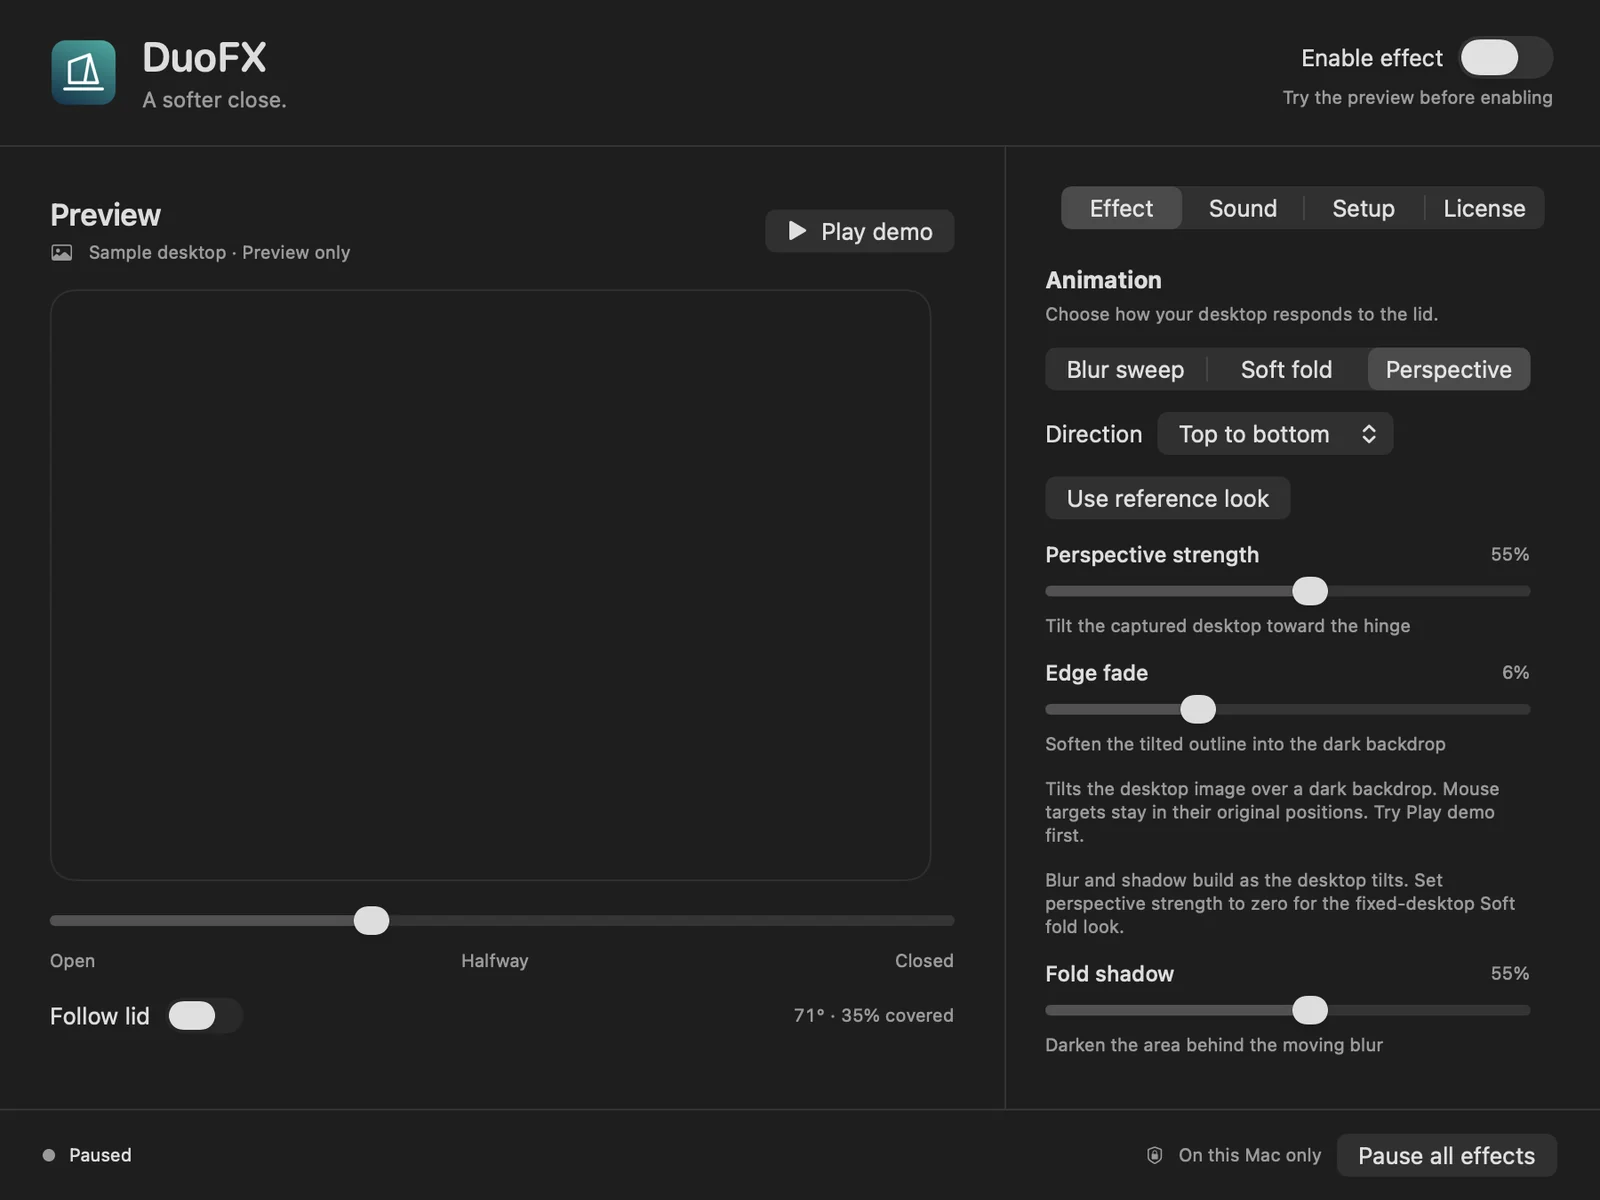
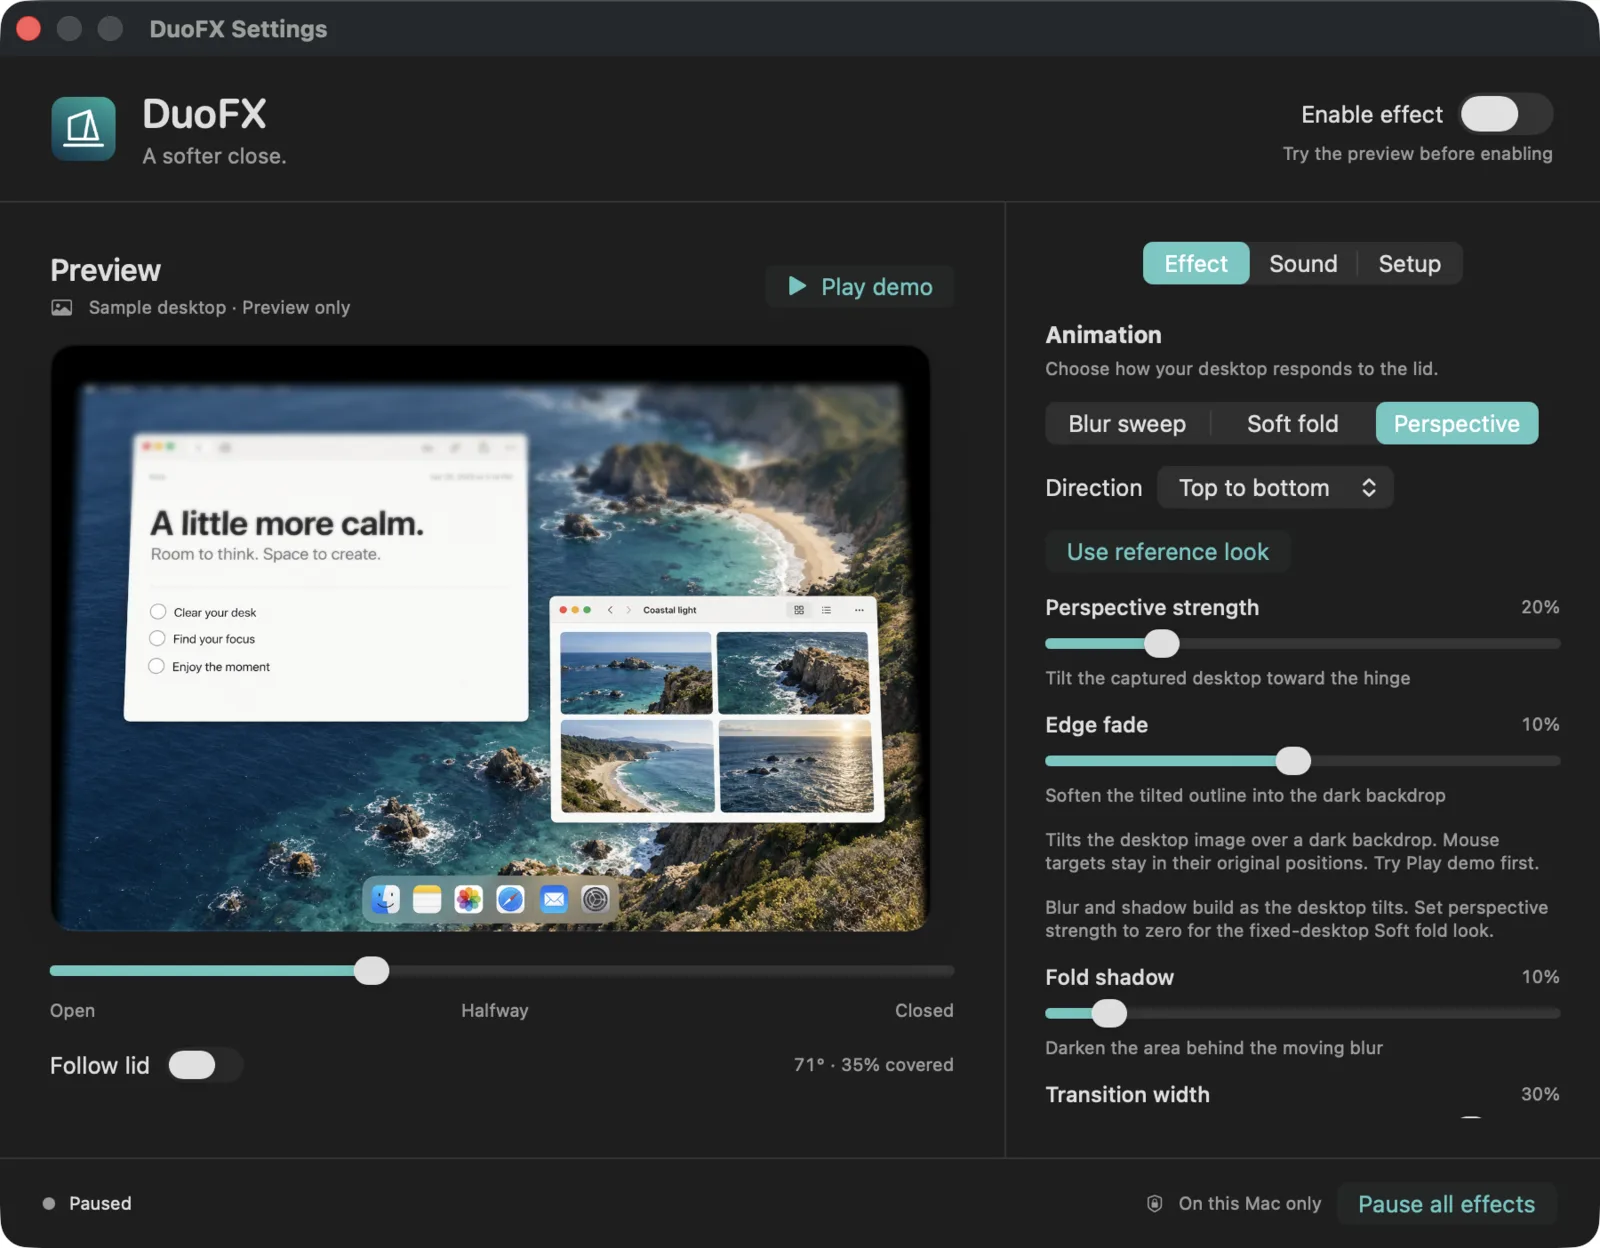
docs: refresh the settings screenshots and bump the site version
The captured settings window still showed a License tab, which no longer
exists after the move to open source, and the site advertised 0.2.0 while
0.3.0 was the current release.

Recapture light and dark at the window's own 900x702, so the assets are
1600x1248 rather than the 4:3 of the desktop captures. Shot now takes the
size of the file it points at instead of stretching everything to 1600x1200.

diff --git a/Web/app/page.tsx b/Web/app/page.tsx
@@ -174,12 +174,13 @@ function Customize() {
       lead="Blur radius, edge softness, dimming, motion easing, tilt strength, edge fade, fold shadow, transition width — each one is a slider with a live preview that needs no permissions."
     >
       <div className="mt-14 dark:hidden">
-        <Shot src="/shots/5-settings.webp" alt="The DuoFX settings window" />
+        <Shot src="/shots/5-settings.webp" alt="The DuoFX settings window" height={1248} />
       </div>
       <div className="mt-14 hidden dark:block">
         <Shot
           src="/shots/5-settings-dark.webp"
           alt="The DuoFX settings window in dark appearance"
+          height={1248}
         />
       </div>
     </Section>
@@ -419,14 +420,28 @@ function Section({
   );
 }
 
-function Shot({ src, alt, priority }: { src: string; alt: string; priority?: boolean }) {
+// Desktop captures are 4:3; the settings window is its own shape, so each shot
+// declares the size of the file it points at rather than being stretched to fit.
+function Shot({
+  src,
+  alt,
+  priority,
+  width = 1600,
+  height = 1200,
+}: {
+  src: string;
+  alt: string;
+  priority?: boolean;
+  width?: number;
+  height?: number;
+}) {
   return (
     <div className="overflow-hidden rounded-2xl border border-line bg-surface-2 shadow-2xl shadow-shot-shadow">
       <Image
         src={src}
         alt={alt}
-        width={1600}
-        height={1200}
+        width={width}
+        height={height}
         priority={priority}
         sizes="(min-width: 1024px) 60rem, 100vw"
         className="w-full"

diff --git a/Web/site.config.ts b/Web/site.config.ts
@@ -4,7 +4,7 @@ export const site = {
   description:
     "A native macOS menu-bar app that animates your desktop as the MacBook lid closes — blur sweep, soft fold, or perspective tilt. Free, open source, 100% local.",
   url: "https://duofx.amjadjibon.com",
-  version: "0.2.0",
+  version: "0.3.0",
   requirements: "macOS 14 Sonoma or later · Apple silicon",
   license: "Apache-2.0",
   author: { name: "Amjad Hossain", url: "https://amjadjibon.com" },
